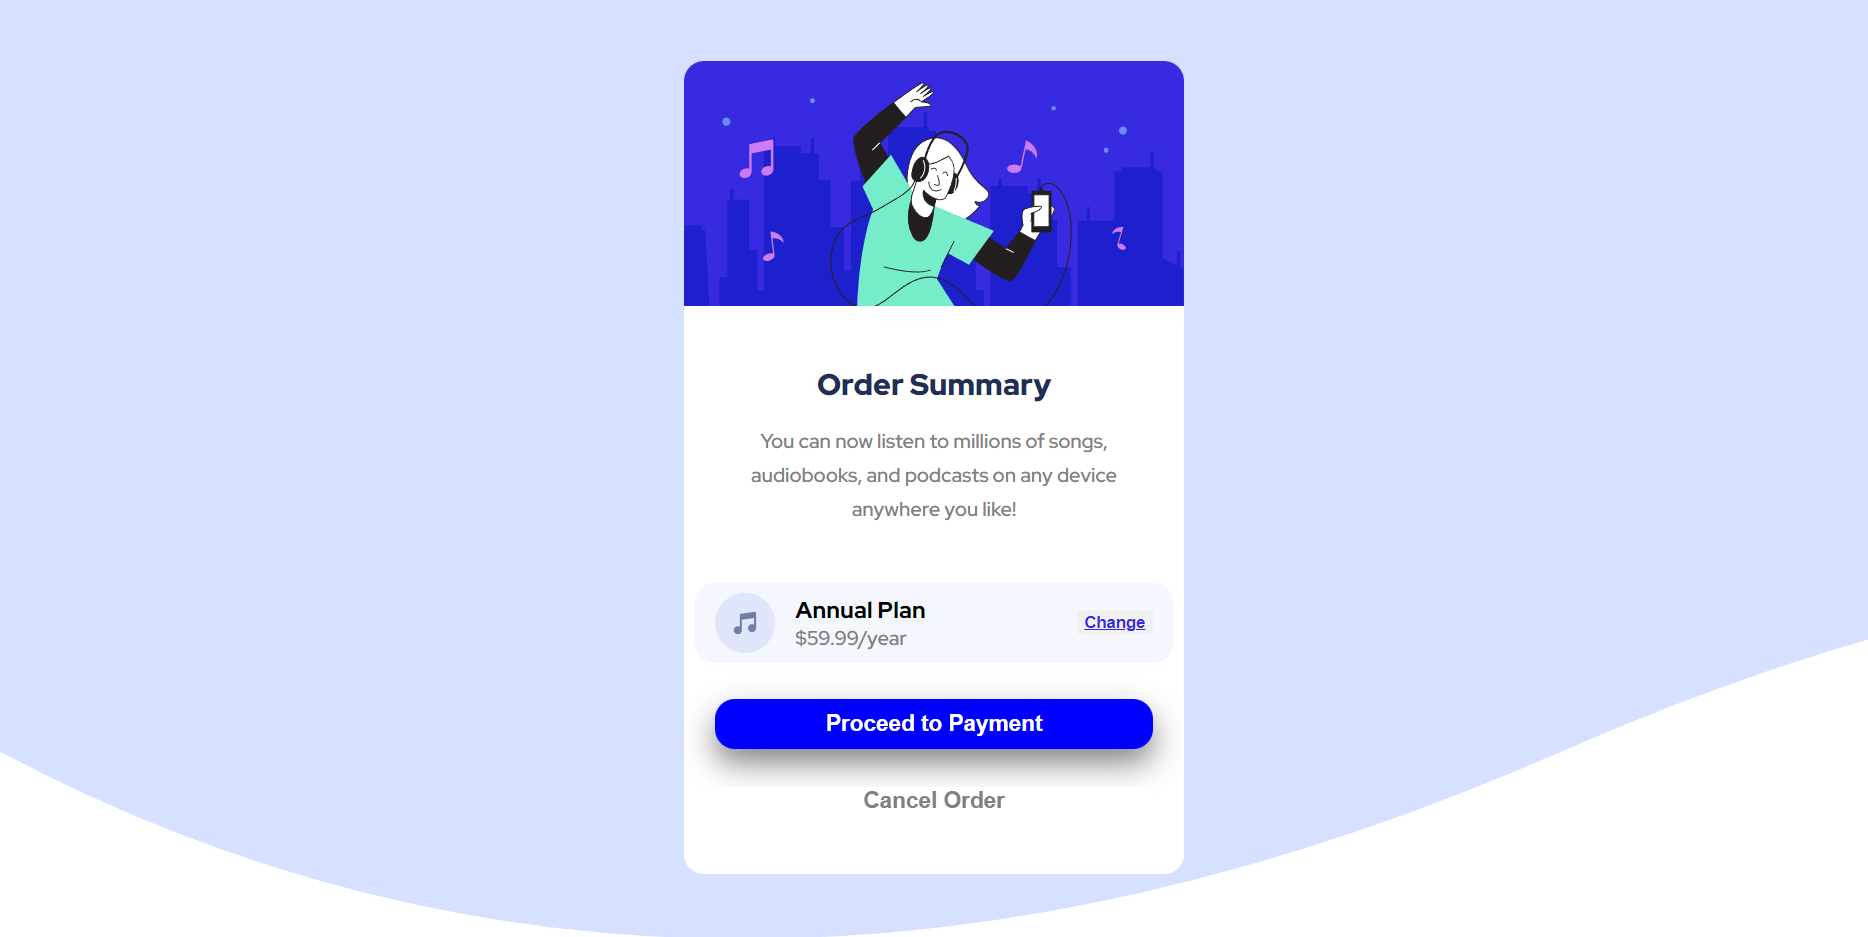
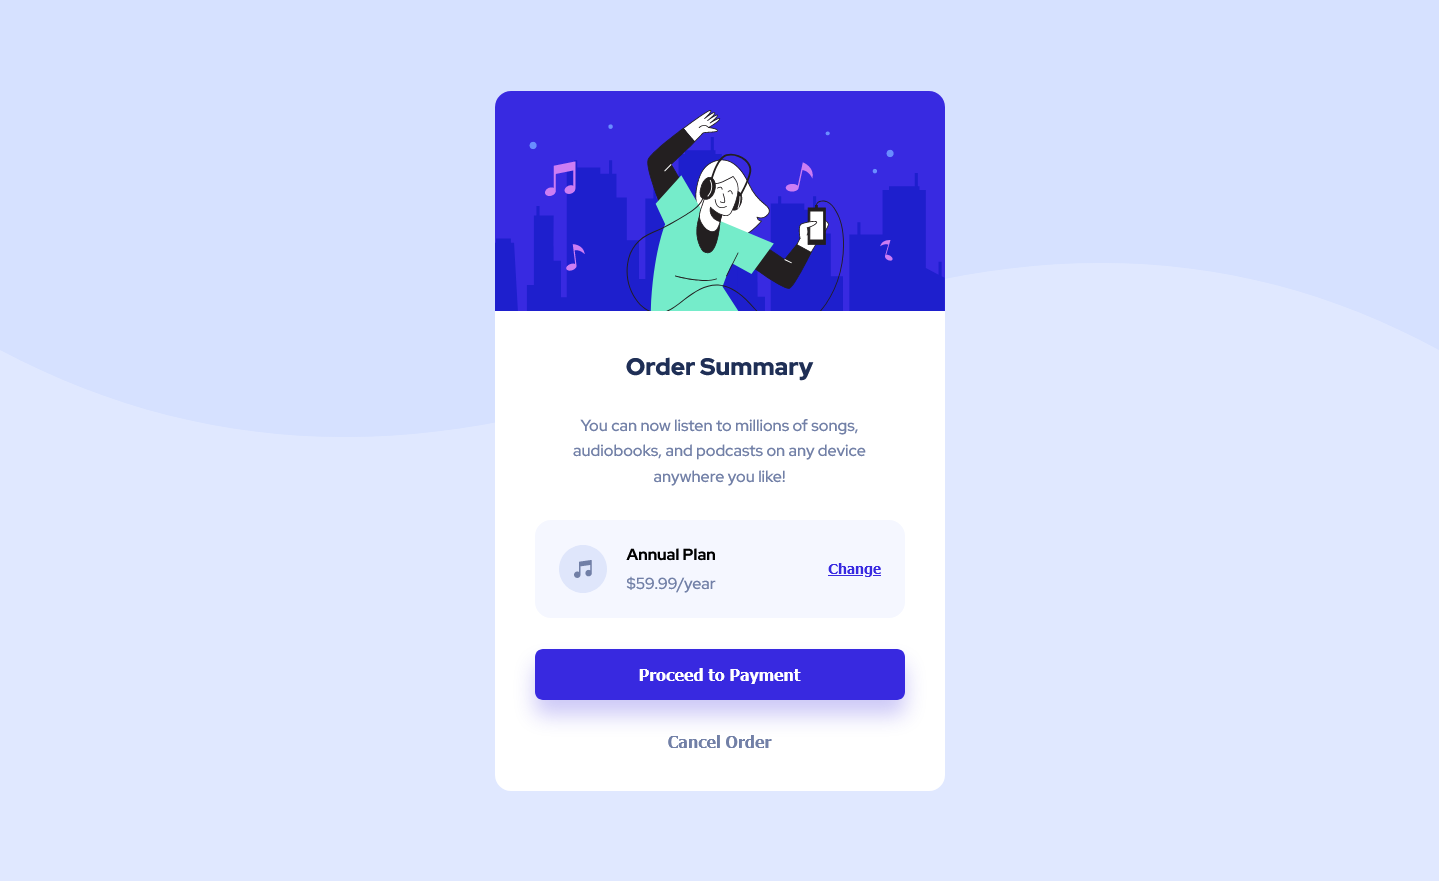
Fix

diff --git a/style.css b/style.css
@@ -1,10 +1,17 @@
-@import url("https://fonts.googleapis.com/css2?family=Red+Hat+Display:wght@500;700;900&display=swap");
+@import url('https://fonts.googleapis.com/css2?family=Red+Hat+Display:wght@500;700;900&display=swap');
 :root {
   --pale-blue: hsl(225, 100%, 94%);
   --bright-blue: hsl(245, 75%, 52%);
+  --bright-blue-shadow: hsla(245, 75%, 52%, 0.25);
   --very-pale-blue: hsl(225, 100%, 98%);
   --desaturated-blue: hsl(224, 23%, 55%);
   --dark-blue: hsl(223, 47%, 23%);
+}
+
+* {
+  box-sizing: border-box;
+  margin: 0;
+  padding: 0;
 }
 
 h1 {
@@ -12,22 +19,27 @@ h1 {
   margin: 0;
   color: var(--dark-blue);
 }
+button {
+  cursor: pointer;
+  border: none;
+  background: none;
+}
 
 body {
-  margin: 0;
-  background: url("./images/pattern-background-desktop.svg");
+  background: url('./images/pattern-background-desktop.svg'), var(--pale-blue);
   background-repeat: no-repeat;
-  background-size: cover;
+  background-size: contain;
   min-height: 100vh;
   display: flex;
   justify-content: center;
   align-items: center;
-  font-family: "Red Hat Display", sans-serif;
+  font-family: 'Red Hat Display', sans-serif;
+  text-align: center;
 }
 
 main {
-  width: 400px;
-  height: 650px;
+  width: 450px;
+  height: 700px;
   border-radius: 1rem;
   background-color: white;
   display: flex;
@@ -37,51 +49,61 @@ main {
 }
 
 .container {
-  padding: 32px;
+  padding: 2.5rem;
   display: flex;
   height: 100%;
+  width: 100%;
   flex-direction: column;
   align-items: center;
-  justify-content: space-around;
+  justify-content: space-between;
 }
 
-.order {
-  display: flex;
-  flex-direction: column;
-  align-items: center;
-  text-align: center;
-  color: gray;
+h1 {
+  font-size: 1.5rem;
 }
 
-.order p {
-  line-height: 1.7;
+p {
+  line-height: 1.6;
+  color: var(--desaturated-blue);
+  max-width: 350px;
 }
 
 .annualPlan {
   display: flex;
-  padding: 8px 16px;
-  gap: 16px;
+  padding: 1.5rem;
+  gap: 1.25rem;
   width: 100%;
   background-color: var(--very-pale-blue);
   border-radius: 1rem;
   align-items: center;
 }
 
-.annualPlan span {
-  color: gray;
-  font-weight: 400;
+.annualPlan div {
+  display: flex;
+  flex-direction: column;
+  gap: 0.5rem;
 }
 
 h3 {
-  margin: 0;
+  font-size: 16px;
+}
+
+.annualPlan span {
+  color: var(--desaturated-blue);
+  font-weight: 400;
 }
 
 .change {
-  border: none;
   margin-left: auto;
   color: var(--bright-blue);
   font-weight: 700;
+  font-size: 14px;
   text-decoration: underline;
+  transition: all 0.3s ease-in-out;
+}
+.change:hover {
+  text-decoration: none;
+  opacity: 0.7;
 }
 
 .illustration-hero {
@@ -91,67 +113,78 @@ h3 {
 }
 
 .buttons {
+  width: 100%;
   display: flex;
   flex-direction: column;
   justify-content: center;
 }
 
 .button1 {
-  width: 70%;
-  background-color: blue;
-  border-radius: 1rem;
-  display: flex;
-  justify-content: center;
-  align-items: center;
+  padding: 1rem;
+  background-color: var(--bright-blue);
+  border-radius: 0.5rem;
   color: white;
-  box-shadow: 0 12px 25px grey;
-  width: 350px;
-  height: 40px;
-  border: none;
+  box-shadow: 0 15px 20px 0 var(--bright-blue-shadow);
   font-weight: 700;
-  font-size: large;
+  font-size: 16px;
+  transition: all 0.3s ease-in-out;
 }
-
 .button1:hover {
-  background-color: rgb(97, 97, 234);
+  opacity: 0.7;
 }
 
 .button2 {
-  display: flex;
-  justify-content: center;
-  color: grey;
-  margin-top: 30px;
-  border: none;
-  background-color: white;
+  color: var(--desaturated-blue);
+  margin-top: 2rem;
   font-weight: 700;
-  font-size: large;
+  font-size: 16px;
+  transition: all 0.3s ease-in-out;
 }
-
 .button2:hover {
-  color: black;
+  color: var(--dark-blue);
 }
 
-.change:hover {
-  text-decoration: none;
-  color: rgb(97, 97, 234);
-}
-@media (max-width: 400px) {
+@media (max-width: 460px) {
+  body {
+    padding: 1rem;
+    background: url('./images/pattern-background-mobile.svg'), var(--pale-blue);
+    background-repeat: no-repeat;
+    background-size: contain;
+  }
   main {
-    width: 300px;
-    height: 500px;
+    width: auto;
+    height: auto;
   }
-  .button1 {
-    width: 222px;
-    height: 40px;
-    font-size: small;
-    margin-top: 15px;
-    border-radius: 0.5rem;
+  .container {
+    gap: 1rem;
   }
-  .button2 {
-    font-size: small;
+  h1 {
+    font-size: 1.125rem;
+  }
+  p {
+    font-size: 14px;
   }
   .annualPlan {
-    gap: 15px;
-    font-size: small;
+    padding: 1rem;
+    gap: 1rem;
+  }
+  .annualPlan div {
+    gap: 0;
+  }
+  h3 {
+    font-size: 14px;
+  }
+  .annualPlan span {
+    font-size: 14px;
+  }
+  .change {
+    font-size: 12px;
+  }
+  .button1,
+  .button2 {
+    font-size: 12px;
+  }
+  .button2 {
+    margin-top: 28px;
   }
 }

diff --git a/index.html b/index.html
@@ -5,12 +5,7 @@
     <meta name="viewport" content="width=device-width, initial-scale=1.0" />
     <!-- displays site properly based on user's device -->
 
-    <link
-      rel="icon"
-      type="image/png"
-      sizes="32x32"
-      href="./images/favicon-32x32.png"
-    />
+    <link rel="icon" type="image/png" sizes="32x32" href="./images/favicon-32x32.png" />
     <link rel="stylesheet" href="style.css" />
     <title>Frontend Mentor | Order summary card</title>
 
@@ -21,14 +16,9 @@
       <img class="illustration-hero" src="./illustration-hero.svg" />
 
       <div class="container">
-        <section class="order">
-          <h1>Order Summary</h1>
+        <h1>Order Summary</h1>
 
-          <p>
-            You can now listen to millions of songs, audiobooks, and podcasts on
-            any device anywhere you like!
-          </p>
-        </section>
+        <p>You can now listen to millions of songs, audiobooks, and podcasts on any device anywhere you like!</p>
 
         <section class="annualPlan">
           <img class="icon-music" src="./icon-music.svg" />

diff --git a/README.md b/README.md
@@ -11,8 +11,6 @@ This is a solution to the [Order summary card challenge on Frontend Mentor](http
 - [Built with](#built-with)
 - [Author](#author)
 
-**Note: Delete this note and update the table of contents based on what sections you keep.**
-
 ## Overview
 
 ### The challenge
